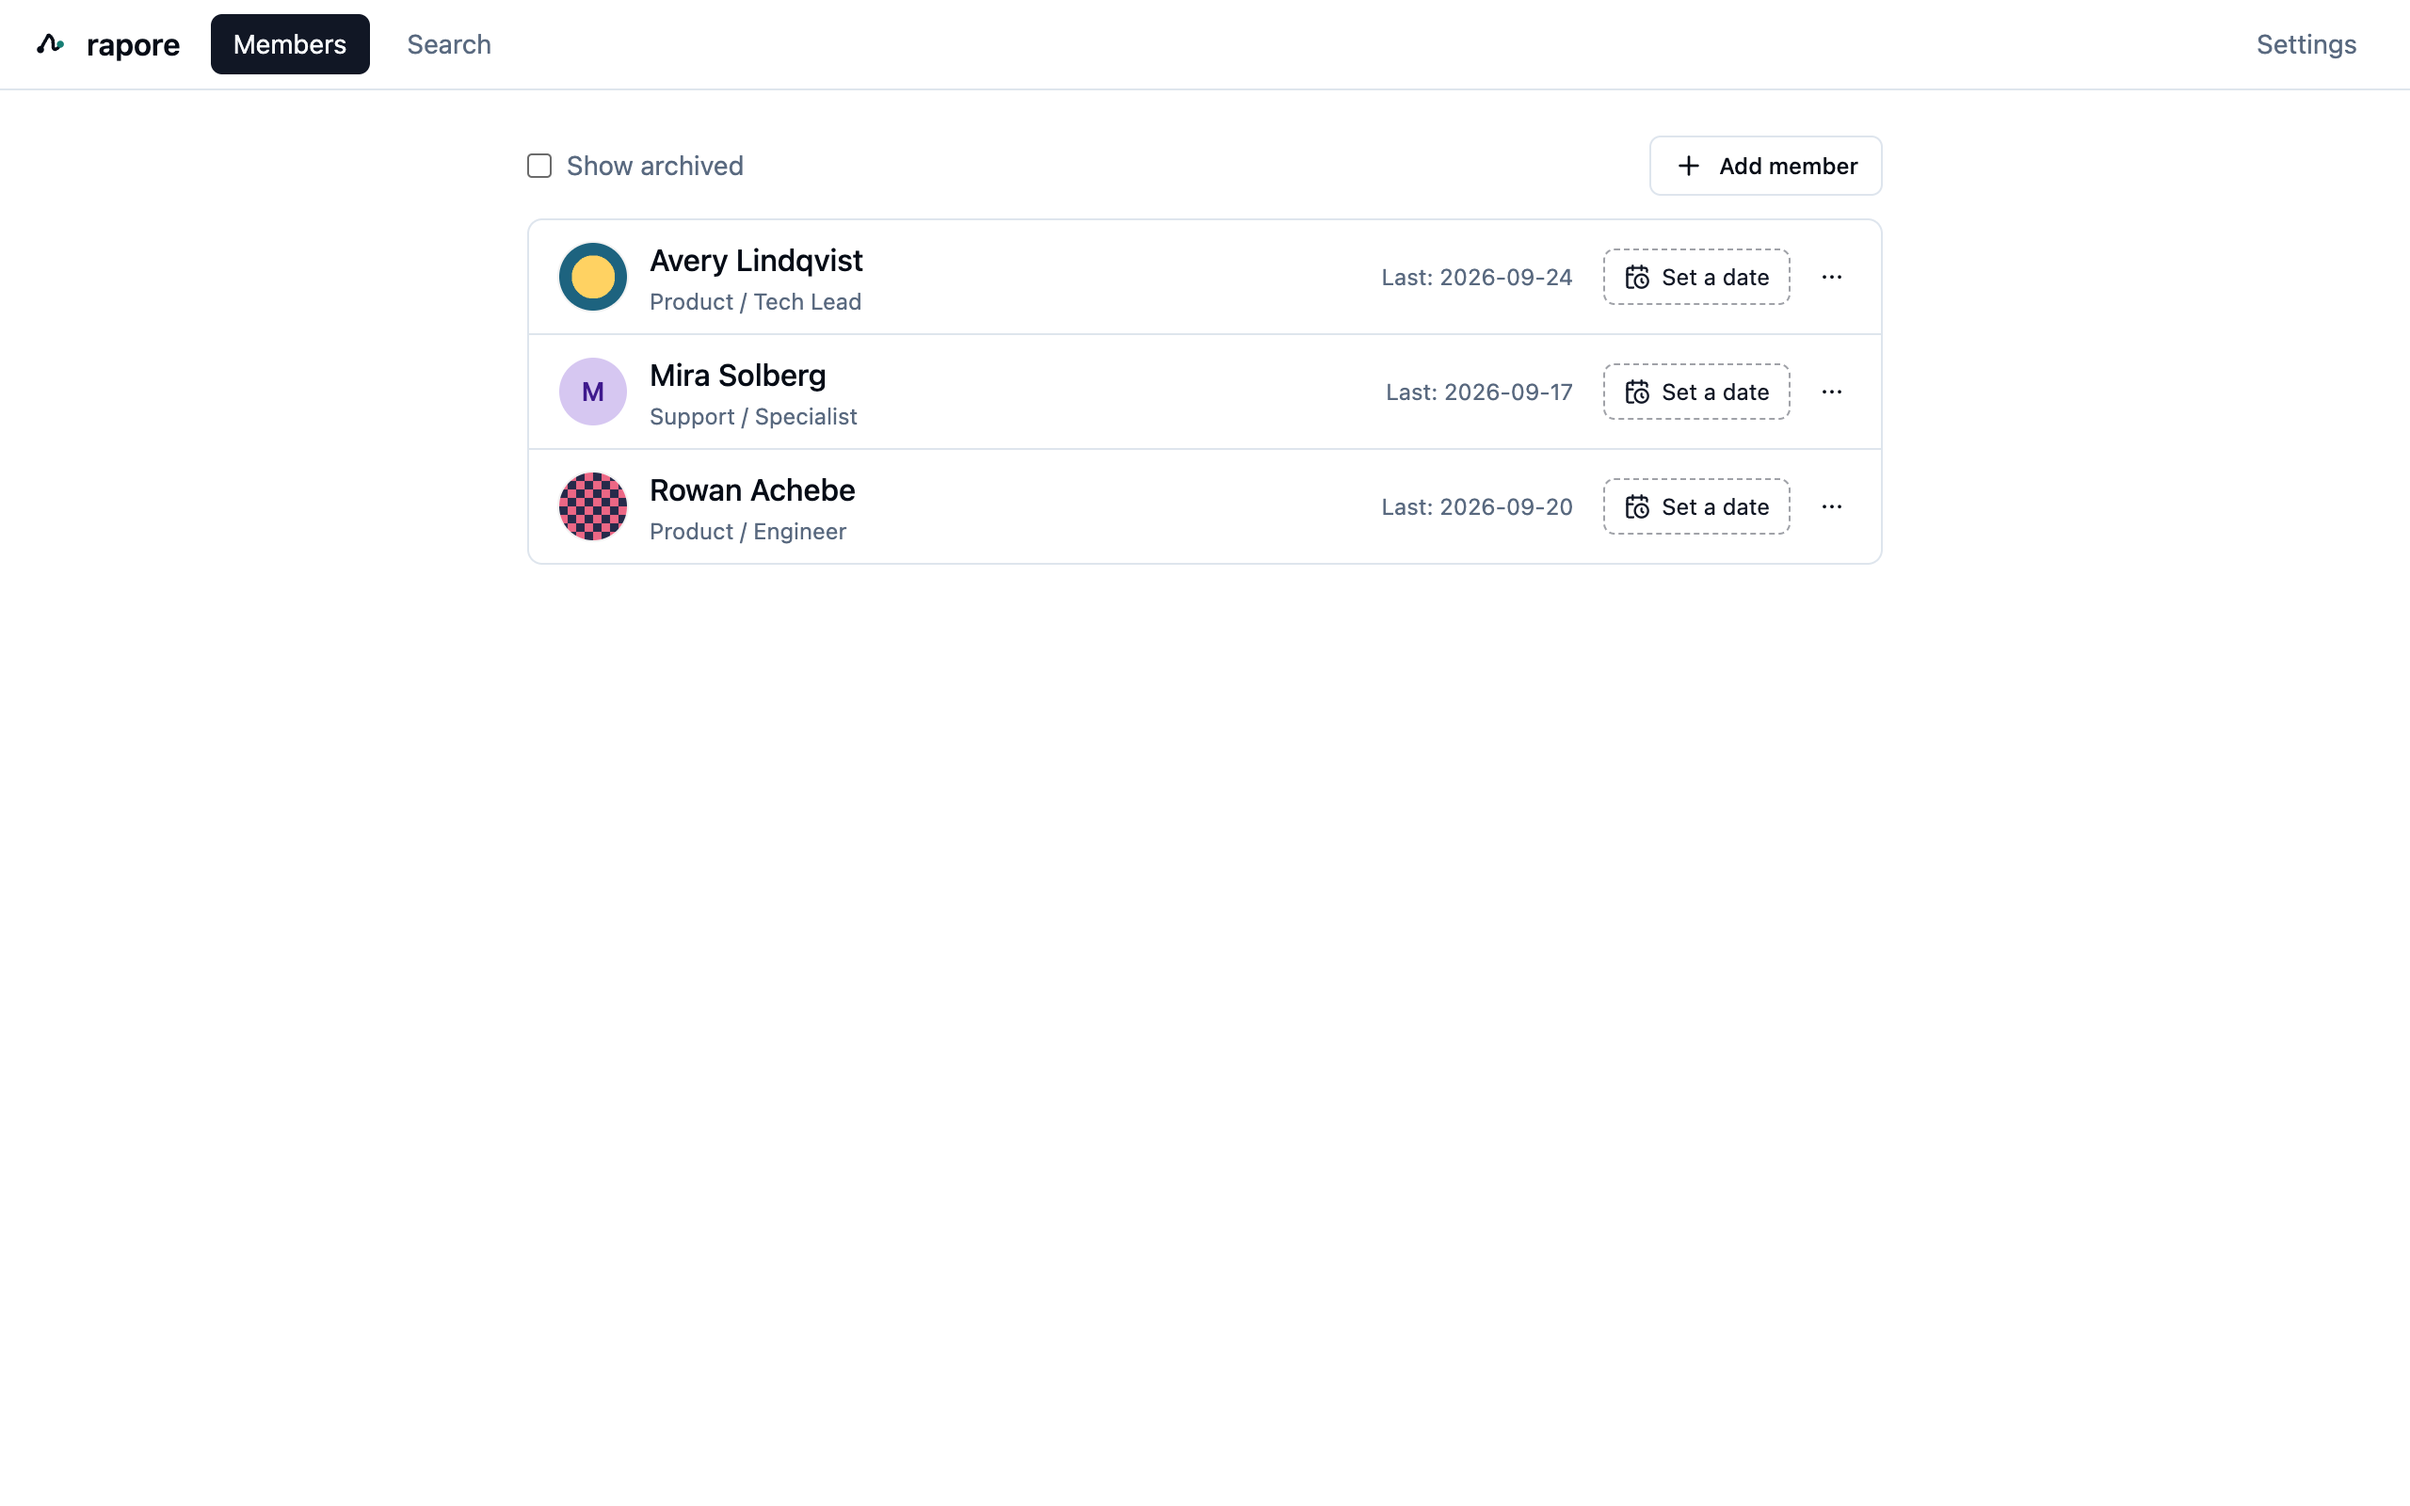
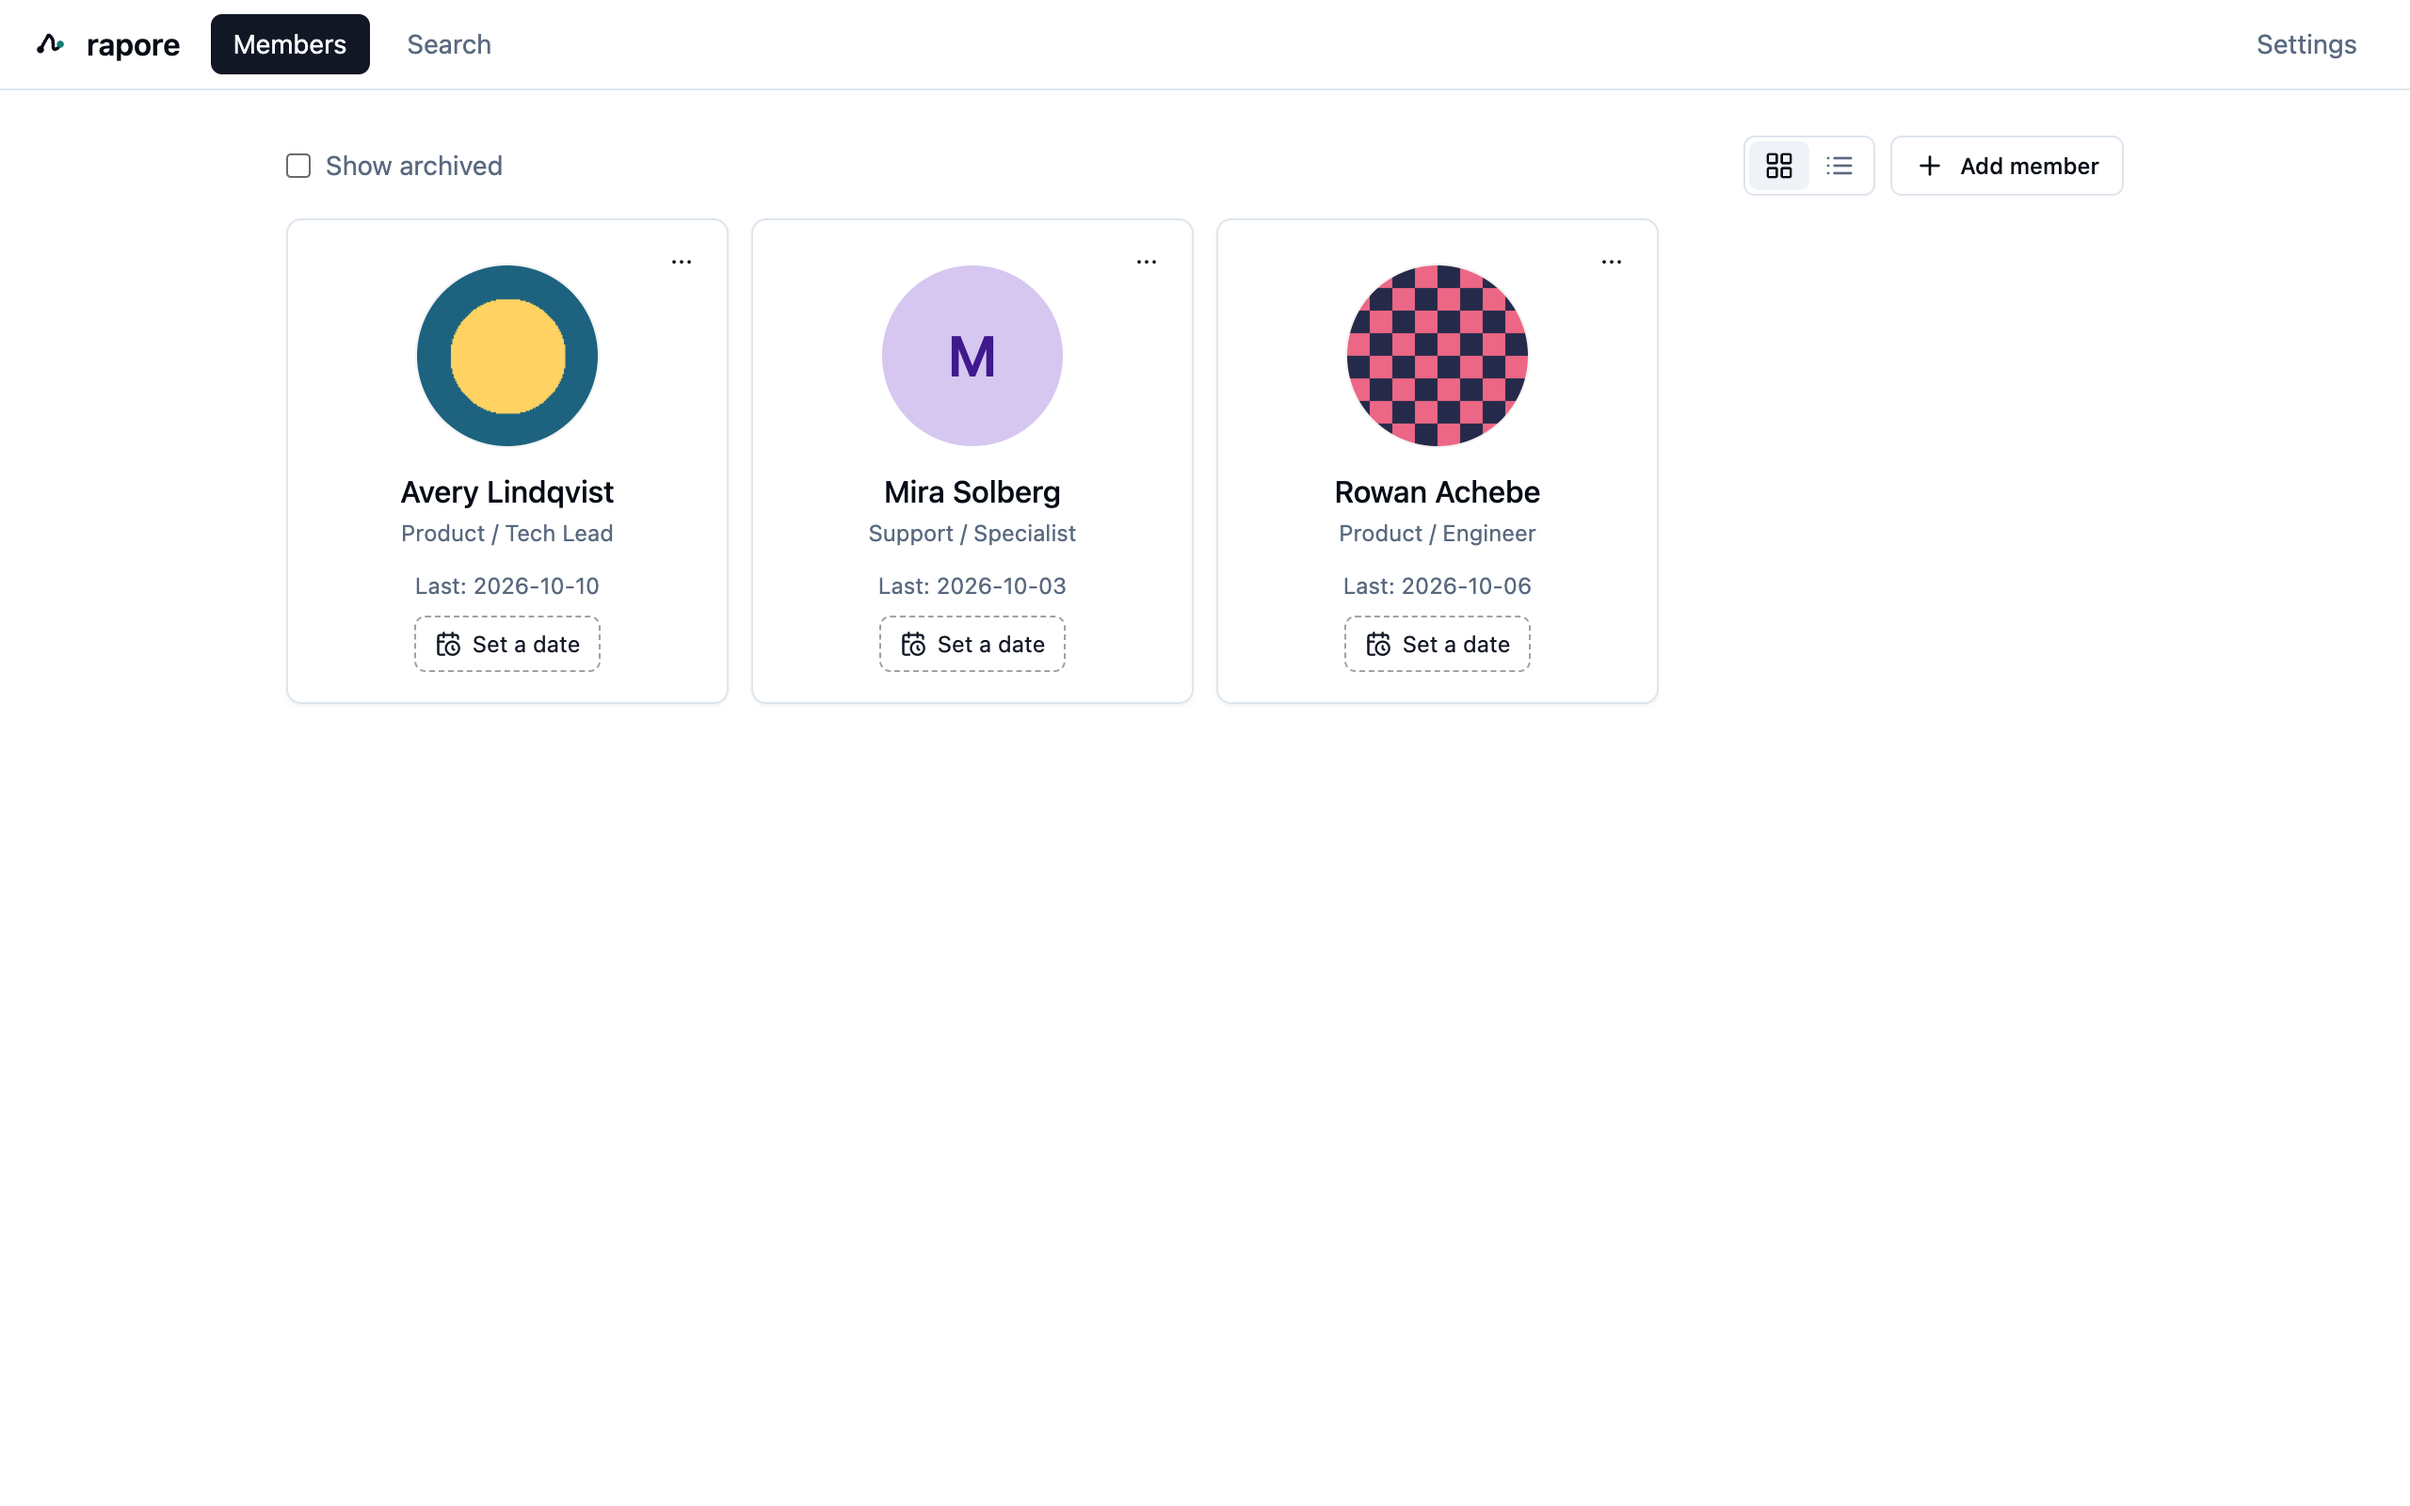
v0.5.0 のドキュメントを更新する

diff --git a/CHANGELOG.md b/CHANGELOG.md
@@ -4,6 +4,22 @@
 
 利用者から見える変更のみを記載しています。
 
+## v0.5.0
+
+**メンバー一覧がカードの並びになりました。** アイコンを大きく出したカードを、画面の幅に合わせて並べます。これまでどおりの1行ずつの表示がよければ、一覧の上の切り替えで **リスト表示** を選んでください。選んだ表示は次に開いたときも保たれます。
+
+**プロフィールを広い画面で読み書きできるようになりました。** メンバーの画面で、プロフィール（価値観・モチベーション／キャリア志向・目標／強み・働き方・コミュ傾向／個人的コンテキスト）の上にある **「広げて表示」** を押すと、4項目を2列に並べた大きな画面で開きます。左の欄では読みづらかった長い内容も見渡せ、そのまま書き換えることもできます（保存は自動です）。アイコン・氏名・様子の推移も一緒に表示されます。
+
+**プロフィールの項目を書いている途中で別の項目を押しても、そちらが開かないことがある不具合を直しました。**
+
+記録したデータはそのまま引き継がれます。
+
+既知の制限
+
+- **Windows 版はまだコード署名を行っていない**ため、初回起動時に Windows の警告が出ます。開き方は [INSTALL.md](./INSTALL.md) をご覧ください。
+- macOS は Apple Silicon（M1 以降）のみ対応です。
+- **Windows での AI連携は、まだ実機で動作を確認できていません。** うまく動かない場合は [Issues](../../issues) でお知らせください。
+
 ## v0.4.1
 
 **macOS 版が Apple の公証（notarization）を受けた状態で配布されるようになりました。** ダウンロードした rapore を初めて開くとき、これまで必要だったターミナルのコマンド（`xattr`）やシステム設定での許可は要りません。「インターネットからダウンロードされたアプリケーションです。開いてもよろしいですか？」の確認で **「開く」** を押すだけで起動します。

diff --git a/CHANGELOG.en.md b/CHANGELOG.en.md
@@ -4,6 +4,22 @@
 
 Only changes that are visible to you are listed here.
 
+## v0.5.0
+
+**The member list is now a grid of cards.** Each member gets a card with a large icon, and the cards fill the width of the window. If you prefer the previous one-row-per-member layout, choose **List view** with the toggle above the list. rapore remembers your choice the next time you open it.
+
+**You can now read and edit a profile in a wider view.** On a member's page, click **Expand** above the profile (Values & motivation / Career direction & goals / Strengths, working & communication style / Personal context) to open all four fields side by side in two columns. Long entries that were hard to read in the narrow left panel are easy to take in, and you can edit them right there (changes are saved automatically). The member's icon, name, and mood trend are shown alongside.
+
+**Fixed a bug where clicking another profile field while editing one sometimes failed to open it.**
+
+Everything you have recorded carries over untouched.
+
+Known limitations
+
+- **The Windows version is not code-signed yet**, so Windows shows a warning the first time you open it. See [INSTALL.en.md](./INSTALL.en.md).
+- macOS support is Apple Silicon (M1 and later) only.
+- **AI access has not yet been verified on a real Windows machine.** If it does not work for you, please let us know in [Issues](../../issues).
+
 ## v0.4.1
 
 **The macOS version is now notarized by Apple.** The first time you open a downloaded copy of rapore, you no longer need the Terminal command (`xattr`) or a trip to System Settings. macOS just asks “"rapore" is an app downloaded from the Internet. Are you sure you want to open it?” — click **Open** and it starts.
